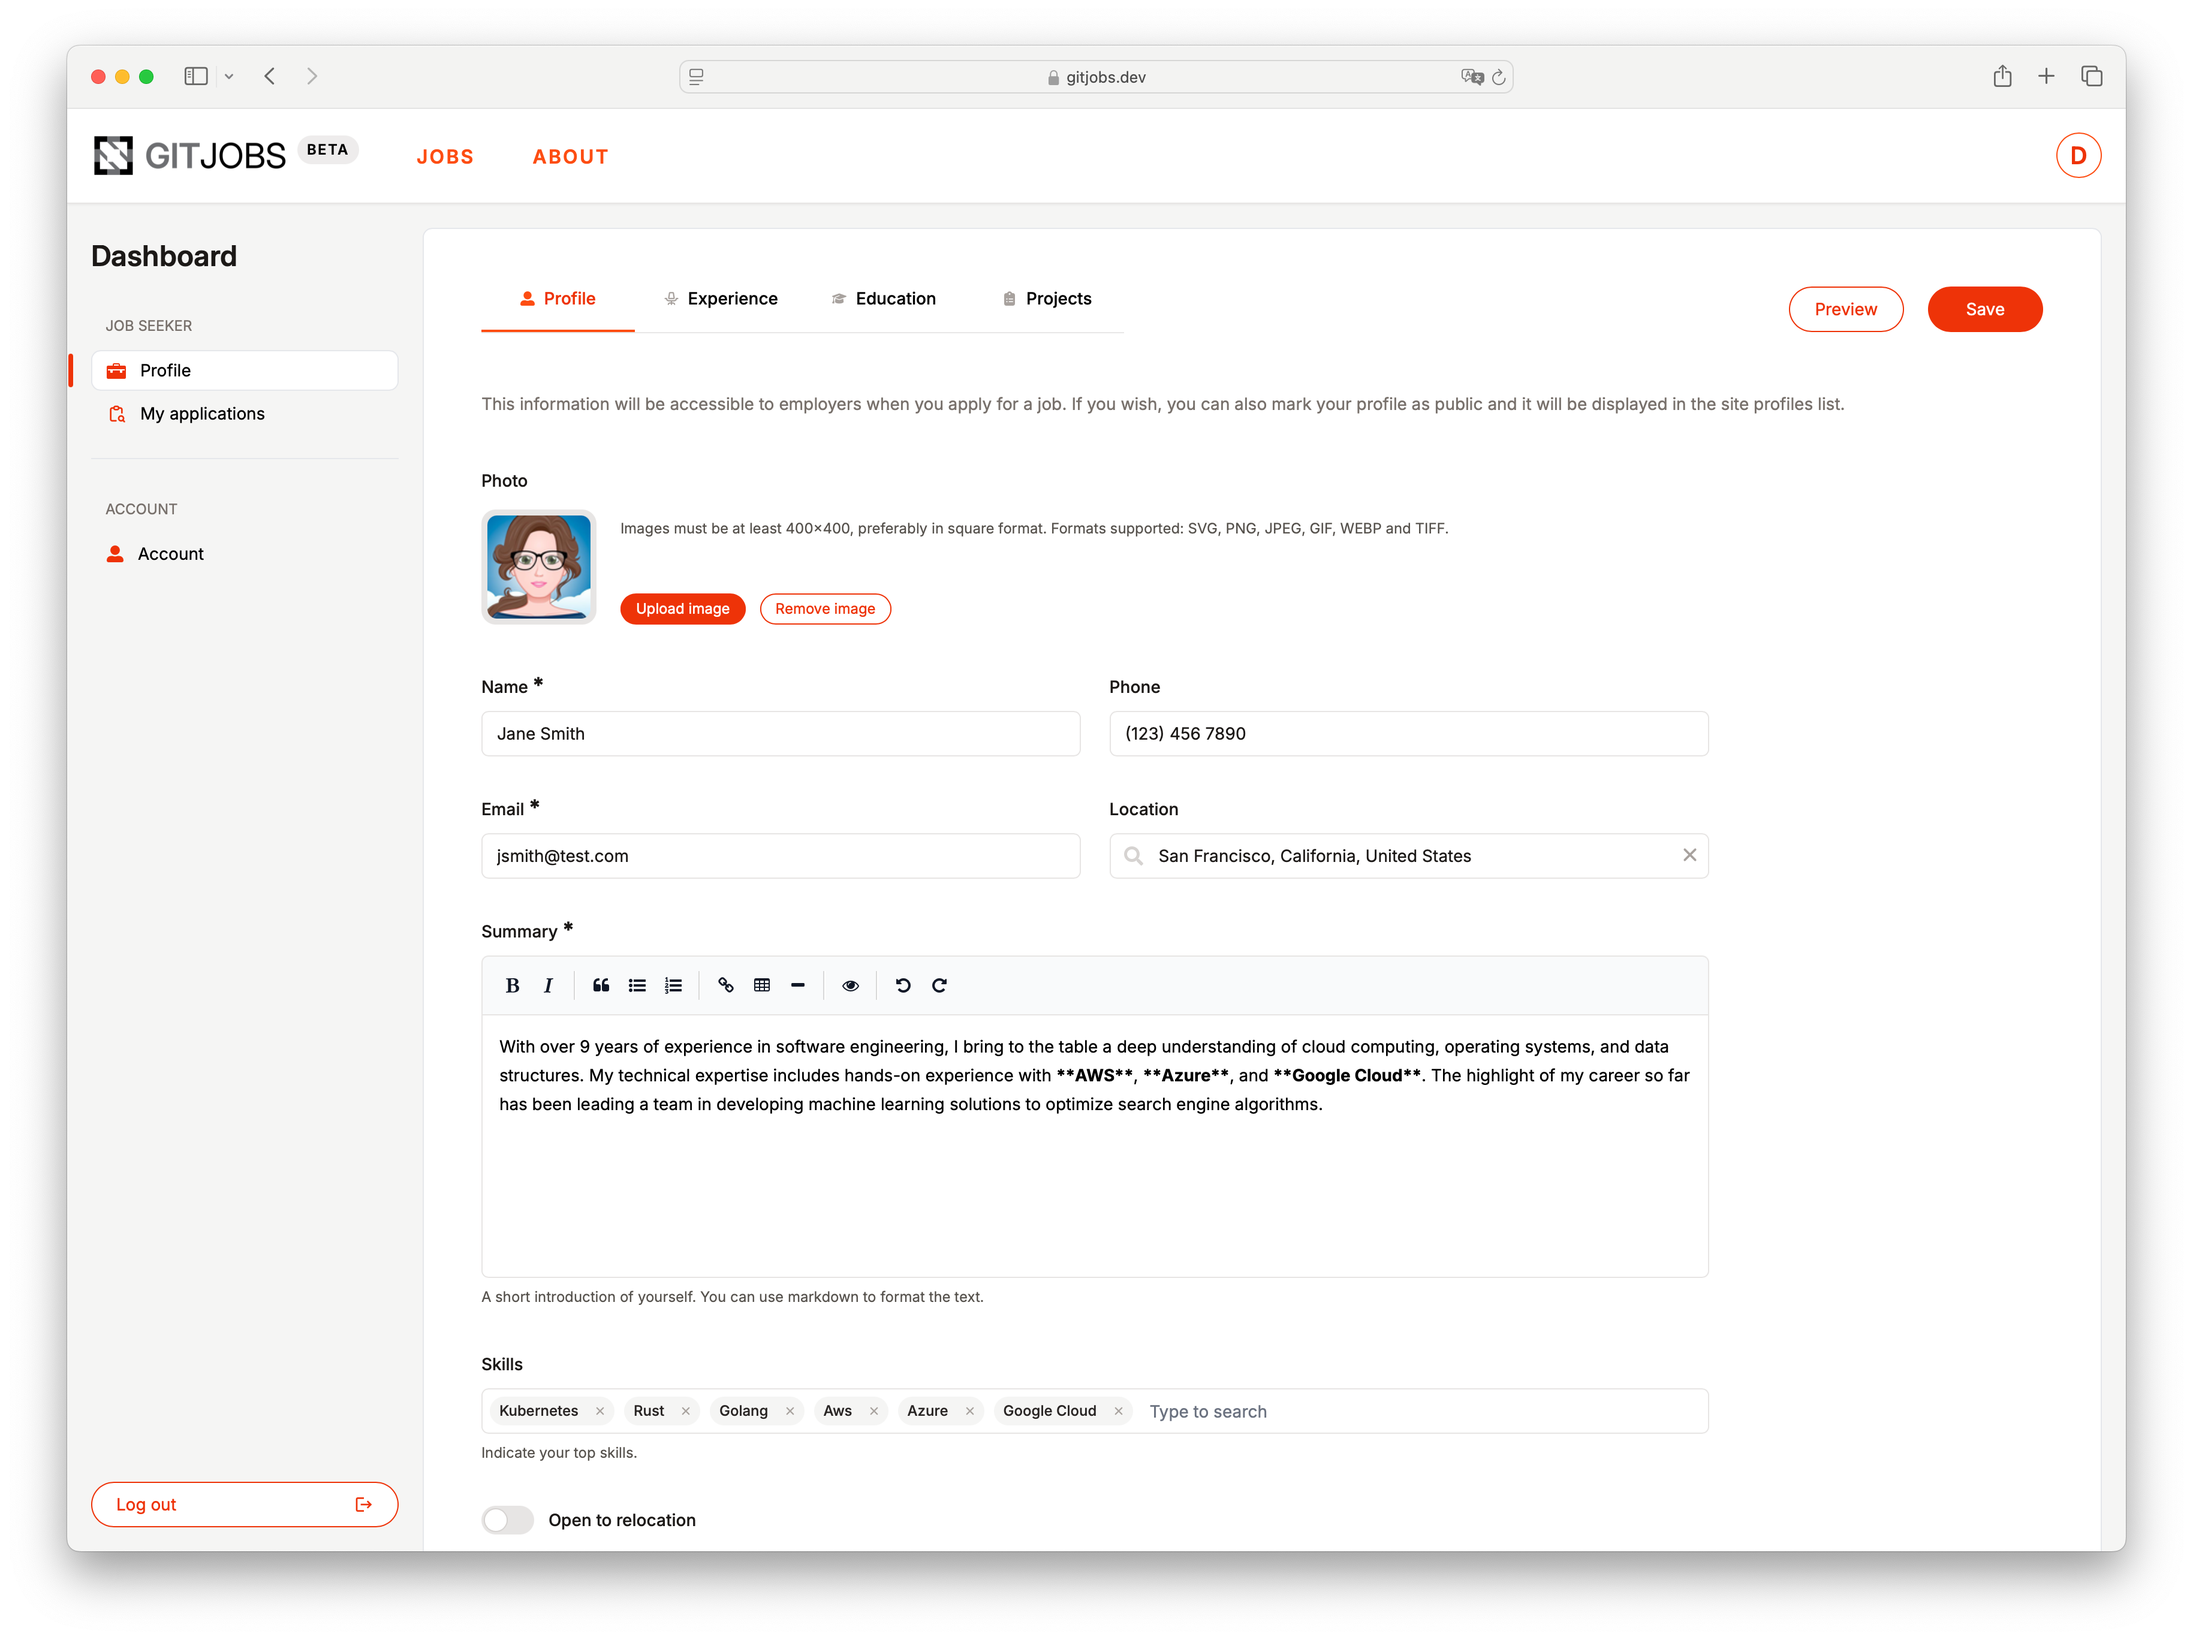
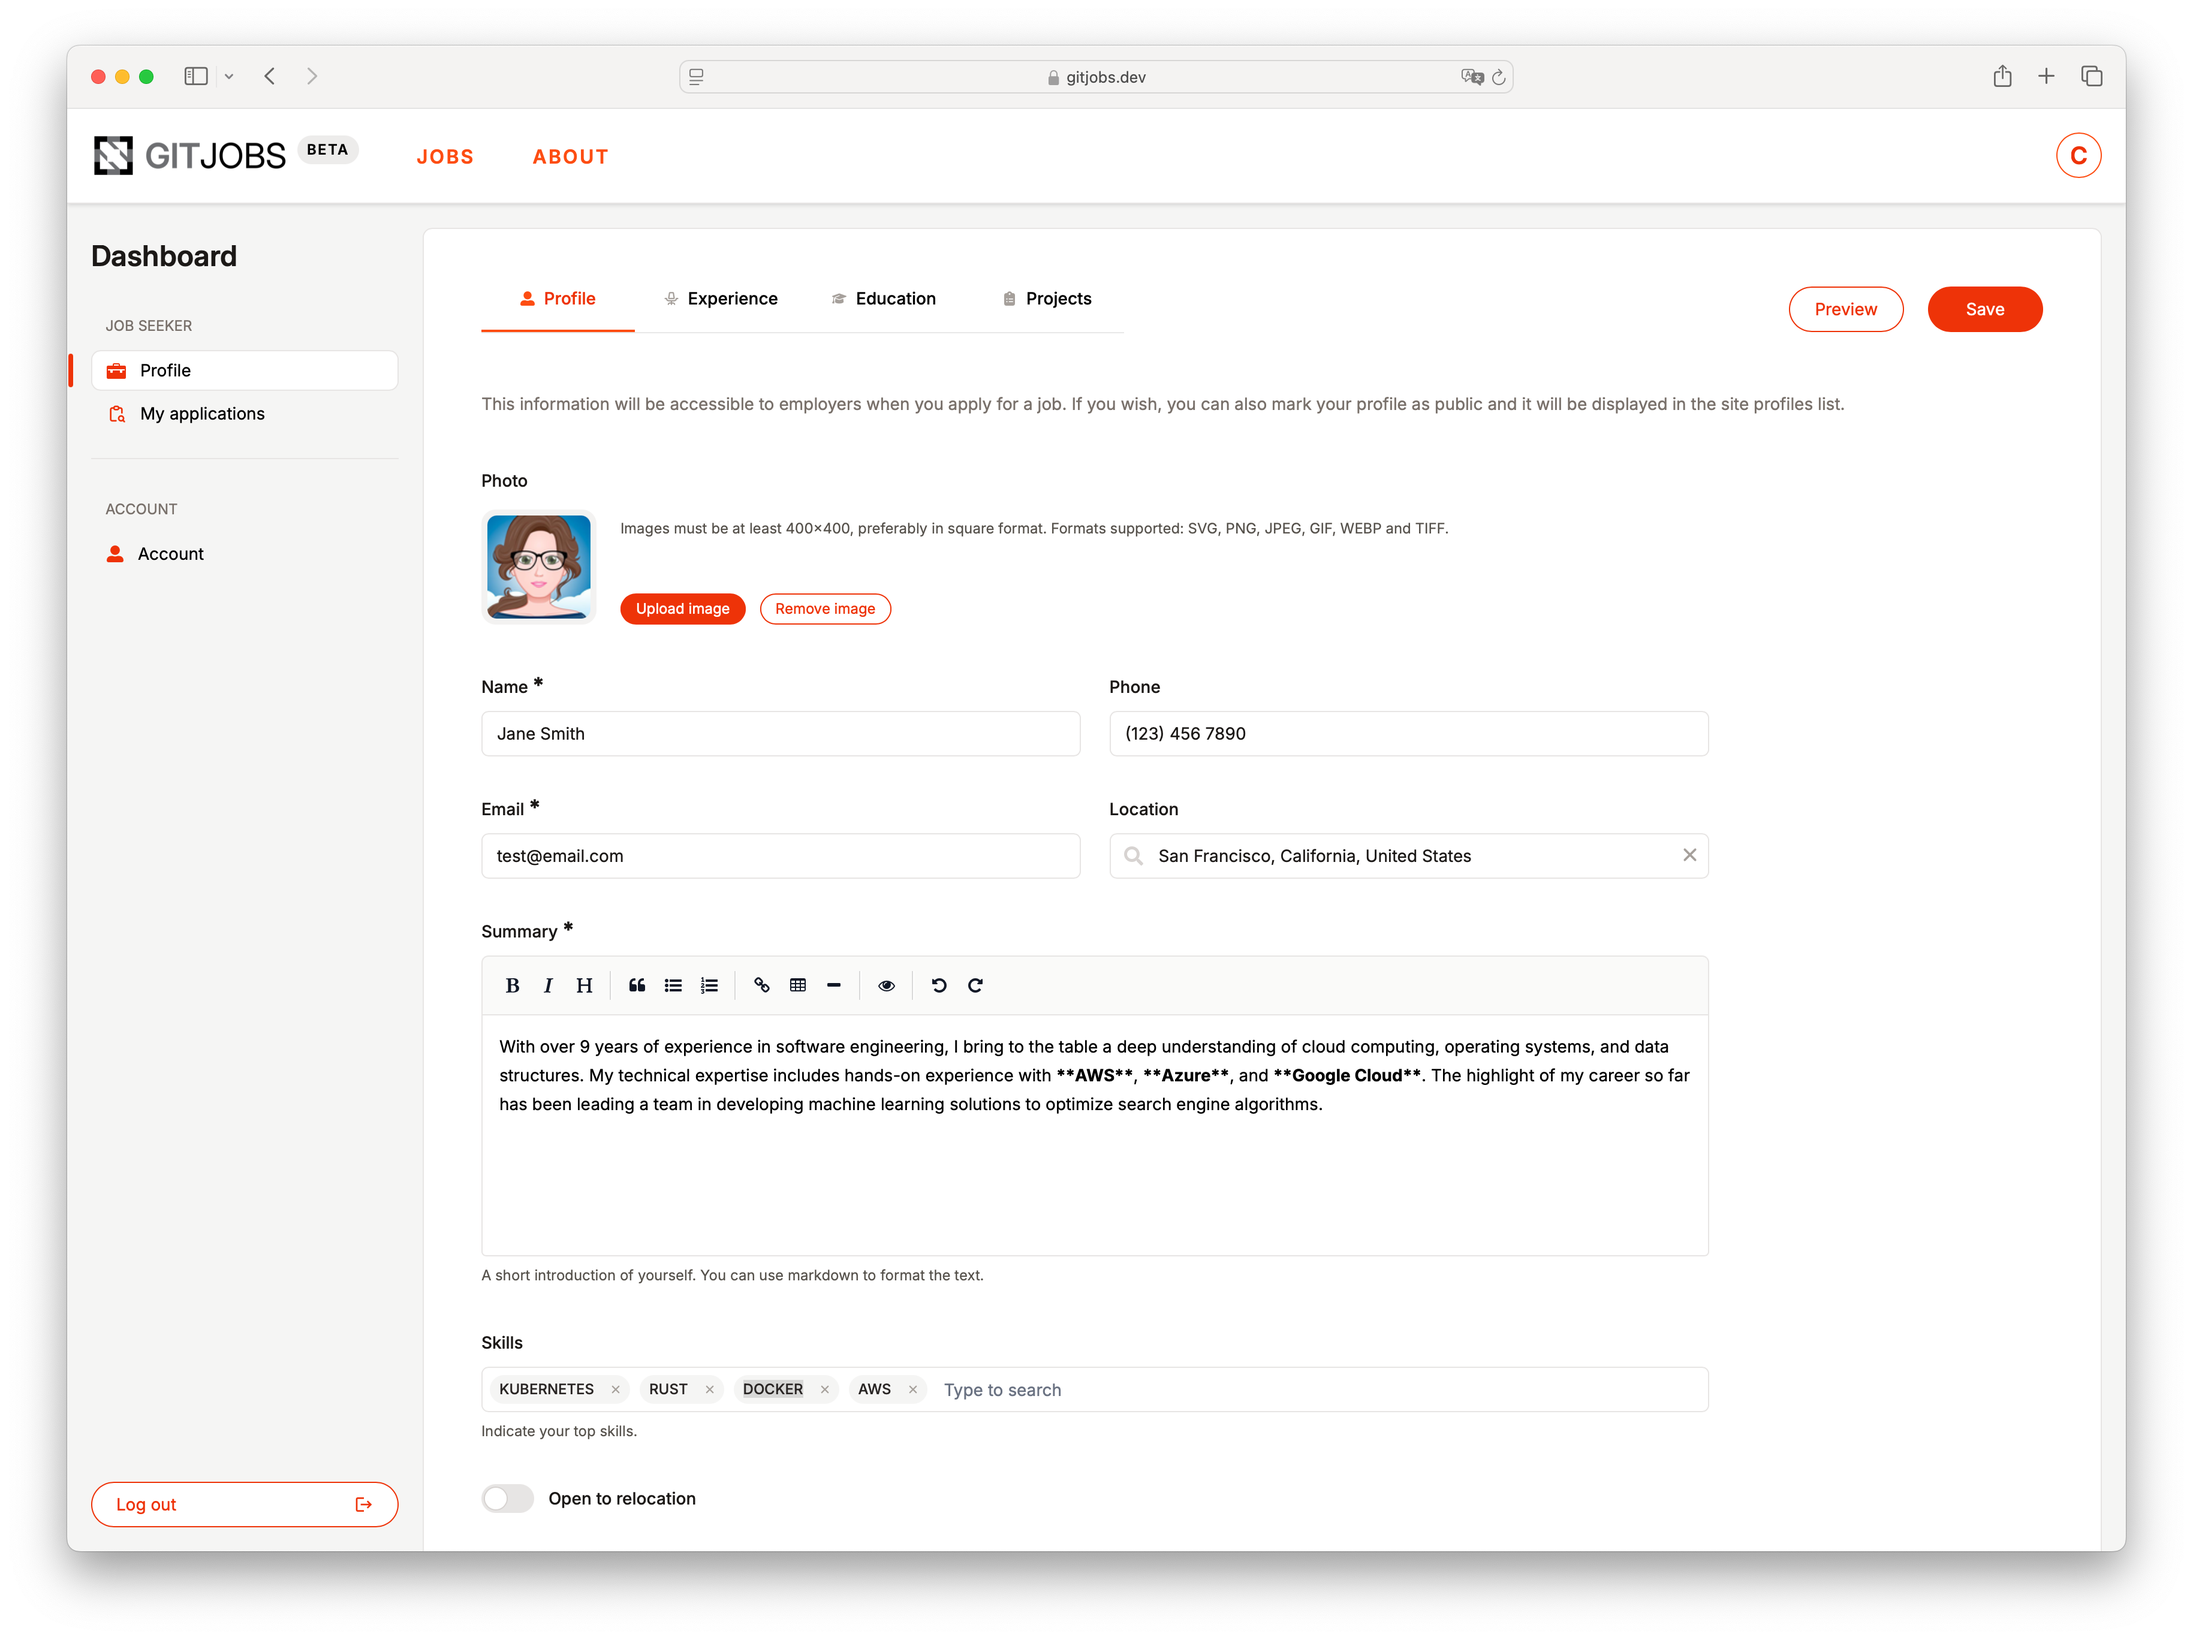
Some minor UI improvements (#223)
* Some minor UI improvements

* Fix key arrow selection on filters

* Improve job card title

* Reduce main title margin on lg breakpoint

* Update screenshots

* Update header buttons

* Update about titles

* Remove empty space

---------

Changed region(s): [[0.2182, 0.7767, 0.4986, 0.932], [0.2182, 0.4971, 0.2805, 0.5281], [0.5298, 0.8388, 0.561, 0.8699]]

diff --git a/gitjobs-server/templates/header.html b/gitjobs-server/templates/header.html
@@ -33,24 +33,25 @@
 
 <div class="relative flex">
   {% if page_id == PageId::JobBoard || page_id == PageId::About -%}
-    <div hx-get="/section/user-menu"
-         hx-trigger="load"
-         hx-target="this"
-         hx-boost="true">
+    <div>
       <div class="flex items-center">
         <div class="hidden lg:flex items-center space-x-5">
-          <a hx-boost="true"
-             href="/dashboard/job-seeker"
-             hx-target="body"
-             class="btn-primary-outline-anchor w-[140px]">Create profile</a>
-
           <a hx-boost="true"
              href="/dashboard/employer"
              hx-target="body"
              class="btn-primary-outline-anchor w-[140px]">Post a job</a>
+
+          <a hx-boost="true"
+             href="/dashboard/job-seeker"
+             hx-target="body"
+             class="btn-primary-outline-anchor w-[140px]">My profile</a>
         </div>
 
-        <div class="ms-10">
+        <div hx-get="/section/user-menu"
+             hx-trigger="load"
+             hx-target="this"
+             hx-boost="true"
+             class="ms-10">
           <button class="relative group rounded-full cursor-pointer bg-white border text-xl border-primary-500 text-primary-600 size-[38px] p-0.5 overflow-hidden"
                   disabled>
             {% call macros::btn_spinner(id = "user-spinner", size = "size-[2.35rem]", spinner_type = "5", htmx = false) -%}
@@ -63,7 +64,6 @@
     {% call user_menu(user) -%}
   {% endif -%}
 </div>
-
 {# End Navbar -#}
 
 {% macro header_link(text, href, active = false) -%}

diff --git a/gitjobs-server/static/js/common/searchable-filter.js b/gitjobs-server/static/js/common/searchable-filter.js
@@ -88,6 +88,7 @@ export class SearchableFilter extends LitWrapper {
     this.enteredValue = "";
     this.visibleDropdown = false;
     this._filterOptions();
+    this.activeIndex = null;
   }
 
   // Check if the clicked element is outside the component
@@ -110,10 +111,10 @@ export class SearchableFilter extends LitWrapper {
       // Select the highlighted item
       case "Enter":
         event.preventDefault();
-        if (this.activeIndex && this.options) {
-          const activeItem = this.options[this.activeIndex];
+        if (this.activeIndex && this.visibleOptions.length > 0) {
+          const activeItem = this.visibleOptions[this.activeIndex];
           if (activeItem) {
-            const activeItem = this.options[this.activeIndex];
+            const activeItem = this.visibleOptions[this.activeIndex];
             const name = this.name === "projects" ? activeItem.name : activeItem;
             this._onSelect(name);
           }
@@ -146,6 +147,7 @@ export class SearchableFilter extends LitWrapper {
     this.enteredValue = "";
     this.visibleDropdown = false;
     this._filterOptions();
+    this.activeIndex = null;
 
     // Wait for the update to complete
     await this.updateComplete;

diff --git a/gitjobs-server/static/js/common/search-location.js b/gitjobs-server/static/js/common/search-location.js
@@ -57,6 +57,9 @@ export class SearchLocation extends LitWrapper {
     this.state = "";
     this.country = "";
     this.value = "";
+    this.distance = this.defaultDistance;
+    this.options = null;
+    this.activeIndex = null;
 
     // Wait for the update to complete
     await this.updateComplete;
@@ -77,6 +80,7 @@ export class SearchLocation extends LitWrapper {
         this.value = "";
       }
       this.options = null;
+      this.activeIndex = null;
     }
   };
 
@@ -156,6 +160,7 @@ export class SearchLocation extends LitWrapper {
     this.country = location.country;
     this.value = this._formatLocation(location.city, location.state, location.country);
     this.options = null;
+    this.activeIndex = null;
     if (this.distance === "") {
       this.distance = this.defaultDistance;
     }
@@ -187,7 +192,9 @@ export class SearchLocation extends LitWrapper {
     this.state = "";
     this.country = "";
     this.value = "";
+    this.distance = this.defaultDistance;
     this.options = null;
+    this.activeIndex = null;
 
     // Wait for the update to complete
     await this.updateComplete;

diff --git a/gitjobs-server/templates/misc/user_menu_section.html b/gitjobs-server/templates/misc/user_menu_section.html
@@ -1,30 +1,3 @@
 {% import "header.html" as macros_header -%}
 
-<div class="flex items-center">
-  <div class="hidden lg:flex items-center space-x-5">
-    {% if user.logged_in -%}
-      {%- if !user.has_profile -%}
-        <a hx-boost="true"
-           href="/dashboard/job-seeker"
-           hx-target="body"
-           class="btn-primary-outline-anchor w-[140px]">Create profile</a>
-      {% endif -%}
-
-      <a hx-boost="true"
-         href="/dashboard/employer"
-         hx-target="body"
-         class="btn-primary-outline-anchor w-[140px]">Post a job</a>
-    {% else -%}
-      <a hx-boost="true"
-         href="/dashboard/job-seeker"
-         hx-target="body"
-         class="btn-primary-outline-anchor w-[140px]">Create profile</a>
-
-      <a hx-boost="true"
-         href="/dashboard/employer"
-         hx-target="body"
-         class="btn-primary-outline-anchor w-[140px]">Post a job</a>
-    {% endif -%}
-  </div>
-  <div class="ms-10">{% call macros_header::user_menu(user) -%}</div>
-</div>
+{% call macros_header::user_menu(user) -%}

diff --git a/gitjobs-server/templates/jobboard/jobs/results_section.html b/gitjobs-server/templates/jobboard/jobs/results_section.html
@@ -109,10 +109,10 @@
               </div>
             </div>
 
-            <div class="flex space-x-3 items-center mt-auto lg:pe-12 xl:pe-16">
+            <div class="flex space-x-3 items-center mt-auto">
               <div class="flex items-center space-x-4 min-w-0 md:h-[22px] sm:-mb-[3px] md:-mb-[4px] relative">
                 {# Title -#}
-                <div class="leading-4 md:leading-5 text-[0.8rem] md:text-base font-stretch-condensed font-medium text-stone-900 truncate mt-4 md:mt-0">
+                <div class="leading-6 md:leading-5 text-base font-stretch-condensed font-medium text-stone-900 line-clamp-2 md:line-clamp-1 mt-4 md:mt-0">
                   {# Truncate job title to 50 characters -#}
                   {{ job.title|truncate(50) }}
                 </div>

diff --git a/gitjobs-server/static/js/common/multiselect.js b/gitjobs-server/static/js/common/multiselect.js
@@ -83,7 +83,7 @@ export class MultiSelect extends LitWrapper {
                   class="inline-flex items-center text-nowrap max-w-[100%] ps-2 pe-0.5 py-0.5 me-2 text-xs font-medium text-stone-800 bg-stone-100 rounded-full"
                 >
                   <div class="flex items-center w-full">
-                    <div class="truncate capitalize">${unnormalize(option)}</div>
+                    <div class="truncate uppercase">${unnormalize(option)}</div>
                     <button
                       type="button"
                       @click=${() => this._onRemoveBadge(option)}

diff --git a/gitjobs-server/templates/jobboard/about/page.html b/gitjobs-server/templates/jobboard/about/page.html
@@ -2,8 +2,8 @@
 
 {% block main -%}
   <div class="flex flex-col w-full">
-    <div class="text-center pt-3 md:pt-5">
-      <h1 class="mb-3 md:mb-6 mx-3 md:mx-5 text-[1.15rem] font-semibold tracking-tight leading-none md:text-2xl lg:text-4xl xl:text-5xl">
+    <div class="text-center pt-2 lg:pt-5">
+      <h1 class="mb-2 lg:mb-6 mx-3 md:mx-5 text-[1.15rem] font-semibold tracking-tight leading-none md:text-2xl lg:text-4xl xl:text-5xl">
         Discover Open Source job opportunities
       </h1>
     </div>

diff --git a/gitjobs-server/templates/jobboard/jobs/jobs.html b/gitjobs-server/templates/jobboard/jobs/jobs.html
@@ -3,8 +3,8 @@
 
 {% block main -%}
   <div class="flex flex-col w-full">
-    <div class="text-center pt-3 md:pt-5">
-      <h1 class="mb-3 md:mb-6 mx-3 md:mx-5 text-[1.15rem] font-semibold tracking-tight leading-none md:text-2xl lg:text-4xl xl:text-5xl">
+    <div class="text-center pt-2 xl:pt-5">
+      <h1 class="mb-2 xl:mb-6 mx-3 md:mx-5 text-[1.15rem] font-semibold tracking-tight leading-none md:text-2xl lg:text-4xl xl:text-5xl">
         Discover Open Source job opportunities
       </h1>
     </div>

diff --git a/gitjobs-server/static/css/styles.src.css b/gitjobs-server/static/css/styles.src.css
@@ -217,20 +217,17 @@
 /* About page */
 
 .about h1 {
-  font-size: 3rem;
-  line-height: 3rem;
-  margin-bottom: 2rem;
-  font-weight: 300;
-  letter-spacing: 0.25rem;
-}
-
-.about h2 {
   font-size: 1.5rem;
+  line-height: 1;
   margin-top: 2.5rem;
   margin-bottom: 1.5rem;
 }
 
-.about h3 {
+.about h1:first-child {
+  margin-top: 0 !important;
+}
+
+.about h2 {
   font-size: 1.25rem;
   margin-bottom: 1rem;
   margin-top: 2rem;

diff --git a/docs/about.md b/docs/about.md
@@ -1,4 +1,4 @@
-# About
+# ABOUT
 
 **GitJobs** is a simple open source, developer first job board focused on:
 
@@ -6,23 +6,23 @@
 - highlighting the opportunities that contribute back to open source projects
 - encouraging sustainability by contributing back to upstream projects
 
-## FAQs
+# FAQs
 
-### How much does it cost to post a job?
+## How much does it cost to post a job?
 
 Posting your job listing is free!
 
-### How long will my job listing be live?
+## How long will my job listing be live?
 
 Your job listing will be live for 30 days. After that, it will be automatically archived and removed from the site.
 
 If your job is still open after that time, you can re-publish it again for another 30 days from the [employer dashboard](https://gitjobs.dev/dashboard/employer?tab=jobs).
 
-### How do I edit a job listing or remove it from the site?
+## How do I edit a job listing or remove it from the site?
 
 You can manage your job listings from the [employer dashboard](https://gitjobs.dev/dashboard/employer?tab=jobs). Please note that it make take a few minutes for changes to be reflected on the site.
 
-### What do the "Upstream Commitment" and "Open Source" bars mean?
+## What do the "Upstream Commitment" and "Open Source" bars mean?
 
 - The *Upstream Commitment* bar indicates how much time the employer provides to work on upstream open source projects the company depends on.
 
@@ -30,6 +30,6 @@ You can manage your job listings from the [employer dashboard](https://gitjobs.d
 
 Jobs postings that include "Upstream Commitment" or "Open Source" development time are featured on the site.
 
-### Anything else?
+## Anything else?
 
 For any further questions, please contact us [by opening a discussion in the GitJobs repository](https://github.com/cncf/gitjobs/discussions).
